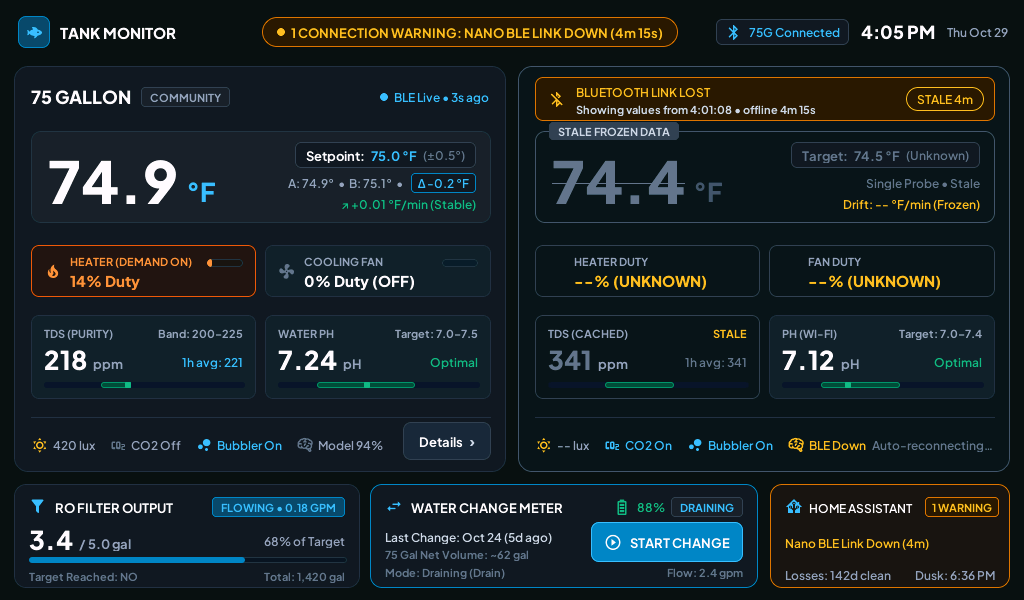
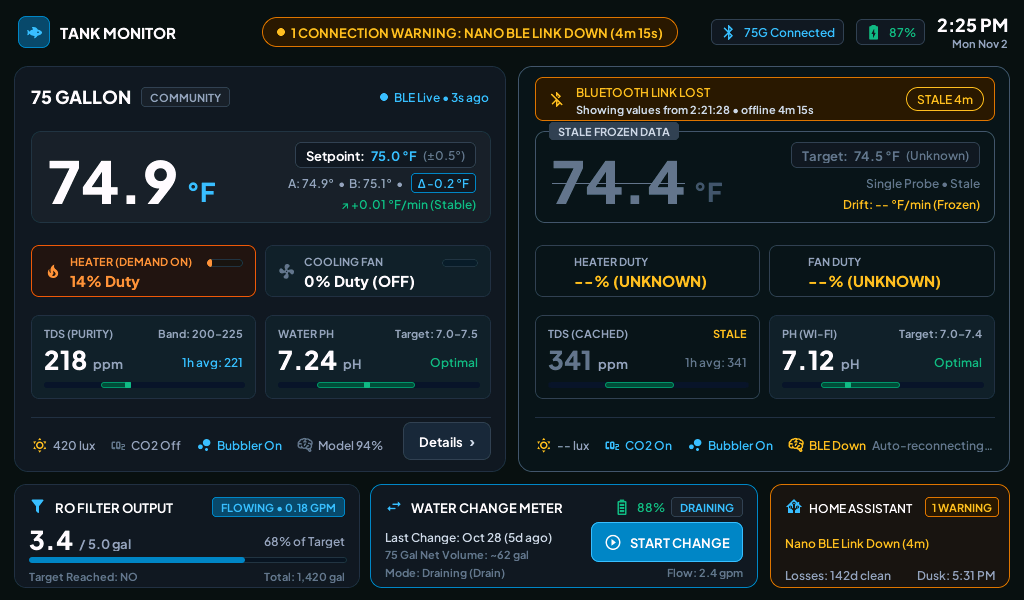
Panel stops redrawing itself every second, so taps stop getting lost
Touch was "awful at responding". The panel's max loop time was 90-102 ms
every second: the update lambda re-wrote every colour, border, flag and
position each tick, and LVGL re-lays-out and redraws an object on every
style write even when the value is unchanged. With 180 deg software
rotation that stall could swallow a whole tap (press and release inside
one stall leave the GT911 reporting only "released").

Every write is now guarded against the current value: text colour, bg and
border colour, hidden flag, label icons, arc colour, border width, text
decoration, range-bar band and marker. Unit labels follow their values via
a position check instead of lv_obj_update_layout + lv_obj_align_to.

Also: the date sits under the clock; side by side, the top row ran into
the status pill once the battery pill joined it.

Changed region(s): [[0.6875, 0.03, 1.0, 0.09], [0.6875, 0.18, 0.8125, 0.21], [0.9062, 0.93, 0.9375, 0.99]]

diff --git a/tools/gen_panel_p4_ui.py b/tools/gen_panel_p4_ui.py
@@ -217,7 +217,7 @@ def top_bar():
         label("w_brand", "TANK MONITOR", "f15", x=60, y=23),
         pill("w_status", [dot("w_status_dot", "green"), label("w_status_l", "", "f13", "green")],
              bg="green_bg", border="green_border", h=30, x=262, y=17, pad=14),
-        row("w_top_right", -16, 16, align="TOP_RIGHT", h=32, gap=12, kids=[
+        row("w_top_right", -16, 12, align="TOP_RIGHT", h=40, gap=12, kids=[
             pill("w_mqtt_pill", [icon("w_mqtt_i", "wifi", 18, "label"),
                                  label("w_mqtt_l", "MQTT", "f12", "text2")],
                  bg="card1", border="border_act", h=26, radius=6, pad=8),
@@ -232,8 +232,15 @@ def top_bar():
             pill("w_wake", [icon(None, "sun", 18, "amber"),
                             label(None, "WAKE SCREEN", "f13", "amber", text_decor="UNDERLINE")],
                  bg="card1", border="border_act", h=34, radius=8, pad=14, hidden=True),
-            label("w_clock", "--:--", "f18"),
-            label("w_date", "", "f12", "label"),
+            # Date stacked under the clock: side by side, the row ran into
+            # the status pill once the battery pill joined it.
+            {"obj": _base(None, None, None, "SIZE_CONTENT", 40, None, bg_opa="TRANSP",
+                          border_width=0, pad_all=0, scrollable=False, scrollbar_mode="OFF",
+                          layout={"type": "FLEX", "flex_flow": "COLUMN", "pad_row": 0,
+                                  "flex_align_main": "CENTER", "flex_align_cross": "END",
+                                  "flex_align_track": "END"},
+                          widgets=[label("w_clock", "--:--", "f18"),
+                                   label("w_date", "", "f11", "label")])},
         ]),
     ]
 
@@ -714,14 +721,42 @@ auto txt = [](lv_obj_t *o, const char *fmt, ...) {
   va_list ap; va_start(ap, fmt); vsnprintf(b, sizeof(b), fmt, ap); va_end(ap);
   if (strcmp(lv_label_get_text(o), b) != 0) lv_label_set_text(o, b);
 };
-auto col = [](lv_obj_t *o, uint32_t c) { lv_obj_set_style_text_color(o, lv_color_hex(c), 0); };
-auto bg = [](lv_obj_t *o, uint32_t fill, uint32_t border) {
-  lv_obj_set_style_bg_color(o, lv_color_hex(fill), 0);
-  lv_obj_set_style_border_color(o, lv_color_hex(border), 0);
+// Every write below is guarded: LVGL re-lays-out and redraws an object on
+// every style write, even when the value is unchanged, and doing that to
+// the whole screen once a second stalled the loop ~100 ms (with software
+// rotation), long enough to swallow a whole tap. Only real changes write.
+auto col = [](lv_obj_t *o, uint32_t c) {
+  const lv_color_t v = lv_color_hex(c);
+  if (!lv_color_eq(lv_obj_get_style_text_color(o, LV_PART_MAIN), v)) lv_obj_set_style_text_color(o, v, 0);
 };
-auto fill = [](lv_obj_t *o, uint32_t c) { lv_obj_set_style_bg_color(o, lv_color_hex(c), 0); };
+auto bg = [](lv_obj_t *o, uint32_t fill, uint32_t border) {
+  const lv_color_t f = lv_color_hex(fill), b = lv_color_hex(border);
+  if (!lv_color_eq(lv_obj_get_style_bg_color(o, LV_PART_MAIN), f)) lv_obj_set_style_bg_color(o, f, 0);
+  if (!lv_color_eq(lv_obj_get_style_border_color(o, LV_PART_MAIN), b)) lv_obj_set_style_border_color(o, b, 0);
+};
+auto fill = [](lv_obj_t *o, uint32_t c) {
+  const lv_color_t v = lv_color_hex(c);
+  if (!lv_color_eq(lv_obj_get_style_bg_color(o, LV_PART_MAIN), v)) lv_obj_set_style_bg_color(o, v, 0);
+};
+auto icon_set = [](lv_obj_t *o, const char *g) {
+  if (strcmp(lv_label_get_text(o), g) != 0) lv_label_set_text(o, g);
+};
+auto pos = [](lv_obj_t *o, int x, int y) {
+  if (lv_obj_get_style_x(o, LV_PART_MAIN) != x || lv_obj_get_style_y(o, LV_PART_MAIN) != y) lv_obj_set_pos(o, x, y);
+};
+// Put unit label u just right of value label v, bottoms aligned (what
+// lv_obj_align_to(..., LV_ALIGN_OUT_RIGHT_BOTTOM, dx, dy) does), but only
+// move it when v's size actually changed. lv_obj_update_layout is a no-op
+// when nothing is dirty.
+auto after = [&](lv_obj_t *u, lv_obj_t *v, int dx, int dy) {
+  lv_obj_update_layout(v);
+  pos(u, lv_obj_get_x(v) + lv_obj_get_width(v) + dx,
+      lv_obj_get_y(v) + lv_obj_get_height(v) - lv_obj_get_height(u) + dy);
+};
 auto show = [](lv_obj_t *o, bool on) {
-  if (on) lv_obj_remove_flag(o, LV_OBJ_FLAG_HIDDEN); else lv_obj_add_flag(o, LV_OBJ_FLAG_HIDDEN);
+  if (on == lv_obj_has_flag(o, LV_OBJ_FLAG_HIDDEN)) {
+    if (on) lv_obj_remove_flag(o, LV_OBJ_FLAG_HIDDEN); else lv_obj_add_flag(o, LV_OBJ_FLAG_HIDDEN);
+  }
 };
 // "4m 12s", "38s", "2h 5m"
 auto age = [](uint32_t ms, char *b, size_t n) {
@@ -760,11 +795,13 @@ auto range = [](lv_obj_t *trk, lv_obj_t *band, lv_obj_t *mark, float v,
   const int w = lv_obj_get_width(trk);
   auto px = [&](float x) { return (int) roundf((std::min(mx, std::max(mn, x)) - mn) / (mx - mn) * (w - 6)); };
   const int a = std::isnan(lo) ? 0 : px(lo), b = std::isnan(hi) ? w : px(hi);
-  lv_obj_set_pos(band, a, 0); lv_obj_set_width(band, std::max(6, b - a));
-  if (std::isnan(v)) { lv_obj_add_flag(mark, LV_OBJ_FLAG_HIDDEN); return; }
-  lv_obj_remove_flag(mark, LV_OBJ_FLAG_HIDDEN);
-  lv_obj_set_pos(mark, px(v), -2);
-  lv_obj_set_style_bg_color(mark, lv_color_hex(mark_col), 0);
+  if (lv_obj_get_style_x(band, LV_PART_MAIN) != a) lv_obj_set_x(band, a);
+  if (lv_obj_get_style_width(band, LV_PART_MAIN) != std::max(6, b - a)) lv_obj_set_width(band, std::max(6, b - a));
+  if (std::isnan(v)) { if (!lv_obj_has_flag(mark, LV_OBJ_FLAG_HIDDEN)) lv_obj_add_flag(mark, LV_OBJ_FLAG_HIDDEN); return; }
+  if (lv_obj_has_flag(mark, LV_OBJ_FLAG_HIDDEN)) lv_obj_remove_flag(mark, LV_OBJ_FLAG_HIDDEN);
+  if (lv_obj_get_style_x(mark, LV_PART_MAIN) != px(v)) lv_obj_set_x(mark, px(v));
+  const lv_color_t mc = lv_color_hex(mark_col);
+  if (!lv_color_eq(lv_obj_get_style_bg_color(mark, LV_PART_MAIN), mc)) lv_obj_set_style_bg_color(mark, mc, 0);
 };
 // Band judgement shared by tiles and detail cards:
 // 0 in band, 1 near / above target (amber), 2 out / at alert (red), -1 unknown.
@@ -786,7 +823,7 @@ const uint32_t C_CARD3 = night ? 0x0A1118 : 0x16202C;
 const uint32_t C_BORDER = night ? 0x131C26 : 0x223142;
 const uint32_t C_LABEL = night ? 0x506173 : 0x94A3B8;
 const uint32_t C_CYAN = night ? 0x506173 : 0x38BDF8;
-lv_obj_set_style_bg_color(id(w_page_home)->obj, lv_color_hex(night ? 0x040608 : 0x0B1015), 0);
+fill(id(w_page_home)->obj, night ? 0x040608 : 0x0B1015);
 auto tnow = id(sntp_time).now();
 const bool mqtt_ok = id(mqtt_up);
 const bool l75 = id(t75_stamp_ms) != 0 && now_ms - id(t75_stamp_ms) < 45000;
@@ -853,7 +890,7 @@ bg(id(w_logo), night ? 0x080D13 : 0x0C4A6E, night ? 0x131C26 : 0x0284C7);
   if (!std::isnan(bp)) {
     const bool chg = id(batt_state) == 1;
     txt(id(w_batt_l), "%.0f%%", bp);
-    lv_label_set_text(id(w_batt_i), chg ? "@ICON_BATT_CHG@" : "@ICON_BATT@");
+    icon_set(id(w_batt_i), chg ? "@ICON_BATT_CHG@" : "@ICON_BATT@");
     const uint32_t bc = chg ? 0x10B981 : (bp < 20.0f ? 0xFBBF24 : (night ? 0x506173 : 0x94A3B8));
     col(id(w_batt_i), bc); col(id(w_batt_l), chg || bp < 20.0f ? bc : (night ? 0x506173 : 0xCBD5E1));
     bg(id(w_batt), C_CARD, night ? 0x131C26 : 0x334155);
@@ -903,8 +940,7 @@ col(id(w_clock), C_TEXT);
   else { txt(id(w_ro_pill_l), "IDLE"); col(id(w_ro_pill_l), C_LABEL); bg(id(w_ro_pill), C_CARD2, night ? 0x131C26 : 0x334155); }
   if (std::isnan(id(ro_fill))) txt(id(w_ro_val), "--"); else txt(id(w_ro_val), "%.1f", id(ro_fill));
   col(id(w_ro_val), C_TEXT);
-  lv_obj_update_layout(id(w_ro_val));
-  lv_obj_align_to(id(w_ro_of), id(w_ro_val), LV_ALIGN_OUT_RIGHT_BOTTOM, 6, -5);
+  after(id(w_ro_of), id(w_ro_val), 6, -5);
   if (std::isnan(id(ro_target))) txt(id(w_ro_of), "/ -- gal"); else txt(id(w_ro_of), "/ %.1f gal", id(ro_target));
   const bool pct_ok = !std::isnan(id(ro_fill)) && !std::isnan(id(ro_target)) && id(ro_target) > 0;
   const int pct = pct_ok ? (int) roundf(id(ro_fill) / id(ro_target) * 100.0f) : 0;
@@ -1001,12 +1037,13 @@ col(id(w_clock), C_TEXT);
   txt(id(w_wc_big_cap), dr ? "WATER REMOVED THIS CHANGE" : "WATER ADDED THIS CHANGE");
   col(id(w_wc_big_cap), dr ? 0xFB923C : 0x38BDF8); col(id(w_wc_big_i), dr ? 0xFB923C : 0x38BDF8);
   if (std::isnan(big)) txt(id(w_wc_big), "--"); else txt(id(w_wc_big), "%.1f", big);
-  lv_obj_update_layout(id(w_wc_big));
-  lv_obj_align_to(id(w_wc_big_u), id(w_wc_big), LV_ALIGN_OUT_RIGHT_BOTTOM, 6, -10);
+  after(id(w_wc_big_u), id(w_wc_big), 6, -10);
   if (std::isnan(id(wc_volume))) txt(id(w_wc_vol), ""); else txt(id(w_wc_vol), "Actual Net Volume: ~%.0f Gal", id(wc_volume));
   if (std::isnan(id(wc_pct))) txt(id(w_wc_pct), "--"); else txt(id(w_wc_pct), "%.1f%%", id(wc_pct));
   lv_arc_set_value(id(w_wc_arc), std::isnan(id(wc_pct)) ? 0 : (int) std::min(1000.0f, id(wc_pct) * 10.0f));
-  lv_obj_set_style_arc_color(id(w_wc_arc), lv_color_hex(dr ? 0xFB923C : 0x0284C7), LV_PART_INDICATOR);
+  { const lv_color_t ac = lv_color_hex(dr ? 0xFB923C : 0x0284C7);
+    if (!lv_color_eq(lv_obj_get_style_arc_color(id(w_wc_arc), LV_PART_INDICATOR), ac))
+      lv_obj_set_style_arc_color(id(w_wc_arc), ac, LV_PART_INDICATOR); }
   if (std::isnan(id(wc_rate))) txt(id(w_wc_rate), "--"); else txt(id(w_wc_rate), "%.1f gpm", id(wc_flowing) ? id(wc_rate) : 0.0f);
   txt(id(w_wc_flowing), "Flowing: %s", id(wc_flowing) ? "YES" : "NO");
   col(id(w_wc_flowing), id(wc_flowing) ? 0x10B981 : 0x64748B);
@@ -1019,8 +1056,7 @@ col(id(w_clock), C_TEXT);
   // RO card
   txt(id(w_ro_on_l), id(ro_online) ? "MQTT Online" : "Offline");
   if (std::isnan(id(ro_fill))) txt(id(w_ro_d_val), "--"); else txt(id(w_ro_d_val), "%.1f", id(ro_fill));
-  lv_obj_update_layout(id(w_ro_d_val));
-  lv_obj_align_to(id(w_ro_d_u), id(w_ro_d_val), LV_ALIGN_OUT_RIGHT_BOTTOM, 6, -5);
+  after(id(w_ro_d_u), id(w_ro_d_val), 6, -5);
   const float tgt = std::isnan(id(ro_target_pending)) ? id(ro_target) : id(ro_target_pending);
   if (std::isnan(tgt)) { txt(id(w_ro_d_of), ""); txt(id(w_ro_d_tgt), "SET TARGET (--)"); }
   else {
@@ -1080,7 +1116,8 @@ UPDATE_TANK = r"""
   if (stale) bg(id(w_@T@_card), night ? 0x080D13 : 0x0E141B, 0x475569);
   else if (crit) bg(id(w_@T@_card), night ? 0x080D13 : 0x1A1114, 0xEF4444);
   else bg(id(w_@T@_card), C_CARD, C_BORDER);
-  lv_obj_set_style_border_width(id(w_@T@_card), crit ? 2 : 1, 0);
+  if (lv_obj_get_style_border_width(id(w_@T@_card), LV_PART_MAIN) != (crit ? 2 : 1))
+    lv_obj_set_style_border_width(id(w_@T@_card), crit ? 2 : 1, 0);
   show(id(w_@T@_head), !stale);
   show(id(w_@T@_link), !stale);
   show(id(w_@T@_lost), stale);
@@ -1104,10 +1141,10 @@ UPDATE_TANK = r"""
      crit ? 0xDC2626 : (live ? (night ? 0x131C26 : 0x243447) : 0x475569));
   if (std::isnan(temp)) txt(id(w_@T@_temp), "--"); else txt(id(w_@T@_temp), "%.1f", temp);
   col(id(w_@T@_temp), stale ? 0x64748B : (crit ? 0xEF4444 : C_HEAD));
-  lv_obj_set_style_text_decor(id(w_@T@_temp), stale && !std::isnan(temp) ? LV_TEXT_DECOR_STRIKETHROUGH : LV_TEXT_DECOR_NONE, 0);
+  { const lv_text_decor_t d = stale && !std::isnan(temp) ? LV_TEXT_DECOR_STRIKETHROUGH : LV_TEXT_DECOR_NONE;
+    if (lv_obj_get_style_text_decor(id(w_@T@_temp), LV_PART_MAIN) != d) lv_obj_set_style_text_decor(id(w_@T@_temp), d, 0); }
   col(id(w_@T@_unit), stale ? 0x475569 : (crit ? 0xEF4444 : C_UNIT));
-  lv_obj_update_layout(id(w_@T@_temp));
-  lv_obj_align_to(id(w_@T@_unit), id(w_@T@_temp), LV_ALIGN_OUT_RIGHT_BOTTOM, 8, -8);
+  after(id(w_@T@_unit), id(w_@T@_temp), 8, -8);
   txt(id(w_@T@_sp_k), "%s", compact || stale ? "Target:" : "Setpoint:");
   if (std::isnan(sp)) txt(id(w_@T@_sp_v), "--"); else txt(id(w_@T@_sp_v), "%.1f °F", sp);
   if (stale) txt(id(w_@T@_sp_s), "(Unknown)");
@@ -1193,8 +1230,7 @@ UPDATE_TANK = r"""
     txt(id(w_@T@_tds_cap), "%s", stale ? "TDS (CACHED)" : "TDS (PURITY)");
     if (std::isnan(tds)) txt(id(w_@T@_tds_val), "--"); else txt(id(w_@T@_tds_val), "%.0f", tds);
     col(id(w_@T@_tds_val), stale ? 0x64748B : C_TEXT);
-    lv_obj_update_layout(id(w_@T@_tds_val));
-    lv_obj_align_to(id(w_@T@_tds_unit), id(w_@T@_tds_val), LV_ALIGN_OUT_RIGHT_BOTTOM, 6, -5);
+    after(id(w_@T@_tds_unit), id(w_@T@_tds_val), 6, -5);
     if (stale) { txt(id(w_@T@_tds_tgt), "STALE"); col(id(w_@T@_tds_tgt), 0xFBBF24); }
     else {
       if (compact) txt(id(w_@T@_tds_tgt), "%s", tj == 0 ? "In Target" : (tj > 0 ? TJ[tj] : ""));
@@ -1209,8 +1245,7 @@ UPDATE_TANK = r"""
     // detail
     if (std::isnan(tds)) txt(id(w_@T@_d_tds), "--"); else txt(id(w_@T@_d_tds), "%.0f", tds);
     col(id(w_@T@_d_tds), stale ? 0x64748B : 0xF8FAFC);
-    lv_obj_update_layout(id(w_@T@_d_tds));
-    lv_obj_align_to(id(w_@T@_d_tds_u), id(w_@T@_d_tds), LV_ALIGN_OUT_RIGHT_BOTTOM, 8, -6);
+    after(id(w_@T@_d_tds_u), id(w_@T@_d_tds), 8, -6);
     if (std::isnan(tm)) txt(id(w_@T@_d_tds_m), ""); else txt(id(w_@T@_d_tds_m), "1h Mean: %.0f ppm", tm);
     txt(id(w_@T@_d_tds_st), "%s", stale ? "Stale" : (tj < 0 ? "" : TJ[tj]));
     col(id(w_@T@_d_tds_st), stale ? 0xFBBF24 : tcol);
@@ -1231,8 +1266,7 @@ UPDATE_TANK = r"""
     else txt(id(w_@T@_ph_cap), "%s", "@PH_TILE@");
     if (std::isnan(ph)) txt(id(w_@T@_ph_val), "--"); else txt(id(w_@T@_ph_val), "%.2f", ph);
     col(id(w_@T@_ph_val), ph_live ? C_TEXT : 0x64748B);
-    lv_obj_update_layout(id(w_@T@_ph_val));
-    lv_obj_align_to(id(w_@T@_ph_unit), id(w_@T@_ph_val), LV_ALIGN_OUT_RIGHT_BOTTOM, 6, -5);
+    after(id(w_@T@_ph_unit), id(w_@T@_ph_val), 6, -5);
     if (!ph_live && !std::isnan(ph)) { txt(id(w_@T@_ph_tgt), "STALE"); col(id(w_@T@_ph_tgt), 0xFBBF24); }
     else {
       if (compact) txt(id(w_@T@_ph_tgt), "%s", pj < 0 ? "" : PJ[pj]);
@@ -1246,8 +1280,7 @@ UPDATE_TANK = r"""
           plo, phi, @PH_MIN@, @PH_MAX@, pcol);
     if (std::isnan(ph)) txt(id(w_@T@_d_ph), "--"); else txt(id(w_@T@_d_ph), "%.2f", ph);
     col(id(w_@T@_d_ph), ph_live ? 0xF8FAFC : 0x64748B);
-    lv_obj_update_layout(id(w_@T@_d_ph));
-    lv_obj_align_to(id(w_@T@_d_ph_u), id(w_@T@_d_ph), LV_ALIGN_OUT_RIGHT_BOTTOM, 8, -6);
+    after(id(w_@T@_d_ph_u), id(w_@T@_d_ph), 8, -6);
     txt(id(w_@T@_d_ph_st), "%s", ph_live ? (pj < 0 ? "" : PJ[pj]) : (std::isnan(ph) ? "No data" : "Stale"));
     col(id(w_@T@_d_ph_st), ph_live ? pcol : 0xFBBF24);
     txt(id(w_@T@_d_ph_tgt), "Target: %.2f – %.2f", plo, phi);
@@ -1269,7 +1302,7 @@ UPDATE_TANK = r"""
     if (!live || std::isnan(lux)) txt(id(w_@T@_f_lux), "-- lux");
     else if (dark) txt(id(w_@T@_f_lux), "%s", "Lights Off");
     else txt(id(w_@T@_f_lux), "%.0f lux", lux);
-    lv_label_set_text(id(w_@T@_fi_lux), dark ? "@ICON_NIGHT@" : "@ICON_SUN@");
+    icon_set(id(w_@T@_fi_lux), dark ? "@ICON_NIGHT@" : "@ICON_SUN@");
     col(id(w_@T@_fi_lux), night ? 0x506173 : 0xFBBF24);
     col(id(w_@T@_f_lux), C_LABEL);
     txt(id(w_@T@_f_co2), "CO2 %s", co2 < 0 ? "--" : (co2 ? "On" : "Off"));
@@ -1300,7 +1333,7 @@ UPDATE_TANK = r"""
     if (bn.empty()) txt(id(w_@T@_d_bub), "Bubbler: %s", bub < 0 ? "--" : (bub ? "ON" : "OFF"));
     else txt(id(w_@T@_d_bub), "Bubbler: %s (%s)", bub < 0 ? "--" : (bub ? "ON" : "OFF"), bn.c_str());
     col(id(w_@T@_d_bub), bub == 1 ? 0x10B981 : 0x94A3B8);
-    lv_label_set_text(id(w_@T@_d_bub_i), bub == 1 ? "@ICON_CHECK@" : "@ICON_MINUSC@");
+    icon_set(id(w_@T@_d_bub_i), bub == 1 ? "@ICON_CHECK@" : "@ICON_MINUSC@");
     col(id(w_@T@_d_bub_i), bub == 1 ? 0x10B981 : 0x94A3B8);
     if (!live) { txt(id(w_@T@_d_safe2), "Safety Tripped: --"); col(id(w_@T@_d_safe2), 0x94A3B8); }
     else { txt(id(w_@T@_d_safe2), "Safety Tripped: %s", id(@T@_fault) ? "YES" : "NO"); col(id(w_@T@_d_safe2), id(@T@_fault) ? 0xEF4444 : 0x10B981); }
@@ -1335,15 +1368,13 @@ UPDATE_TANK = r"""
     bg(id(w_@T@_learn), ln ? 0x0F291E : 0x1E293B, ln ? 0x059669 : 0x334155);
     if (std::isnan(temp)) txt(id(w_@T@_d_pa), "--"); else txt(id(w_@T@_d_pa), "%.1f", temp);
     col(id(w_@T@_d_pa), live ? 0xF8FAFC : 0x64748B);
-    lv_obj_update_layout(id(w_@T@_d_pa));
-    lv_obj_align_to(id(w_@T@_d_pa_u), id(w_@T@_d_pa), LV_ALIGN_OUT_RIGHT_BOTTOM, 6, -5);
+    after(id(w_@T@_d_pa_u), id(w_@T@_d_pa), 6, -5);
     //@DUAL{
     {
       const float tb = id(@T@_temp_b), g = id(@T@_grad);
       if (std::isnan(tb)) txt(id(w_@T@_d_pb), "--"); else txt(id(w_@T@_d_pb), "%.1f", tb);
       col(id(w_@T@_d_pb), live ? 0xF8FAFC : 0x64748B);
-      lv_obj_update_layout(id(w_@T@_d_pb));
-      lv_obj_align_to(id(w_@T@_d_pb_u), id(w_@T@_d_pb), LV_ALIGN_OUT_RIGHT_BOTTOM, 6, -5);
+      after(id(w_@T@_d_pb_u), id(w_@T@_d_pb), 6, -5);
       if (std::isnan(g)) txt(id(w_@T@_d_grad), "--"); else txt(id(w_@T@_d_grad), "%+.2f °F", g);
       if (!live || std::isnan(dr)) txt(id(w_@T@_d_drift), "%s", "");
       else txt(id(w_@T@_d_drift), "%s %+.2f °F/min Drift", dr < -0.005f ? "↘" : (dr > 0.005f ? "↗" : "→"), dr);
@@ -1626,7 +1657,8 @@ def build():
              "  char b[64]; va_list ap; va_start(ap, fmt); vsnprintf(b, sizeof(b), fmt, ap); va_end(ap);\n"
              "  lv_label_set_text(o, b);\n};\n"
              "auto show = [](lv_obj_t *o, bool on) {\n"
-             "  if (on) lv_obj_remove_flag(o, LV_OBJ_FLAG_HIDDEN); else lv_obj_add_flag(o, LV_OBJ_FLAG_HIDDEN);\n};\n"
+             "  if (on == lv_obj_has_flag(o, LV_OBJ_FLAG_HIDDEN)) {\n"
+             "    if (on) lv_obj_remove_flag(o, LV_OBJ_FLAG_HIDDEN); else lv_obj_add_flag(o, LV_OBJ_FLAG_HIDDEN);\n  }\n};\n"
              + "".join(tank_code(CHART_TANK, T) for T in TANKS))
     night = "return;  // preview: the scenario sets night_on\n" if PREVIEW else (
         "const double el = id(sun_pa).elevation();\n"
